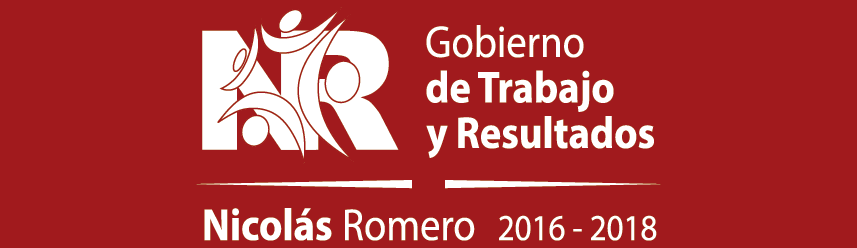
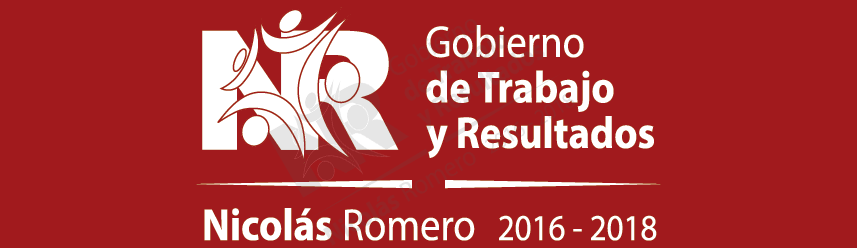
Mejora de Seguridad

diff --git a/assets/css/main.css b/assets/css/main.css
@@ -1214,7 +1214,27 @@
 			width: 100%;
 			margin: 0 0 2em 0;
 		}
-
+		.imgDir1{
+			position: relative;
+			background-image: url("images/overlay.png"), url("images/overlay.png"), url("images/dif2.jpg");
+			background-position: top left, top left, center center;
+			background-repeat: repeat, repeat, no-repeat;
+			background-size: auto, auto, cover;
+		}
+		.imgDir2{
+			position: relative;
+			background-image: url("images/overlay.png"), url("images/overlay.png"), url("images/imcufide2.jpg");
+			background-position: top left, top left, center center;
+			background-repeat: repeat, repeat, no-repeat;
+			background-size: auto, auto, cover;
+		}
+		.imgDir3{
+			position: relative;
+			background-image: url("images/overlay.png"), url("images/overlay.png"), url("images/sapasnir2.jpg");
+			background-position: top left, top left, center center;
+			background-repeat: repeat, repeat, no-repeat;
+			background-size: auto, auto, cover;
+		}
 		.image.left {
 			float: left;
 			margin: 0 2em 2em 0;

diff --git a/slide/css/style.css b/slide/css/style.css
@@ -9,6 +9,14 @@
 			width: auto;
 			max-width: 100%;
 		}
+		.overlay{
+			position: relative;
+			background-image: url("img/overlay.png"), url("img/overlay.png"), url("img/banner.png");
+			background-position: top left, top left, center center;
+			background-repeat: repeat, repeat, no-repeat;
+			background-size: auto, auto, cover;
+			z-index: 1;
+		}
 		.cycle-slideshow{
 			width: 100%;
 			max-width: 2000px;

diff --git a/index.php b/index.php
@@ -3,11 +3,12 @@
 <head>
 	<meta charset="UTF-8">
 	<title>Nicolás Romero 2016 - 2018 Trabajo y Resultados</title>
-	<meta name="viewport" content="width=device-width, initial-scale=1" />
+	<meta http-equiv="imagetoolbar" content="no">
+	<meta name="viewport" content="width=device-width, initial-scale=1">
 	<link rel="stylesheet" href="assets/css/main.css" />
 	<link rel="stylesheet" href="slide/css/style.css">
 </head>
-<body class="homepage">
+<body class="homepage" expr:id="&quot;post-body-&quot; + data:post.id" itemprop="articleBody" oncontextmenu="return false" ondragstart="return false" onmousedown="return false" onselectstart="return false">
 	<div id="page-wrapper">
 
 			<!-- Header -->
@@ -112,21 +113,21 @@
 										<div>
 											<div class="cuadroDir">
 											<div class="cuadroDirChico">
-												<a href="#" class="image featured"><img src="images/dif2.jpg" alt=""></a>
+												<a href="#"><img src="images/nada.png" alt="dif" class="imgDir1"></a>
 												<h3><a href="#">DIF</a></h3>
 <!-- 															<p>
 																Desarrollo Integral de la Familia
 															</p> -->
 											</div>
 											<div class="cuadroDirChico">
-												<a href="#" class="image featured"><img src="images/imcufide2.jpg" alt=""></a>
+												<a href="#"><img src="images/nada.png" alt="imcufide" class="imgDir2"></a>
 												<h3><a href="#">IMCUFIDE</a></h3>
 <!-- 															<p>
 																Instituto Municipal de Cultura Física y Deporte
 															</p> -->
 											</div>
 											<div class="cuadroDirChico">
-												<a href="#" class="image featured"><img src="images/sapasnir2.jpg" alt=""></a>
+												<a href="#"><img src="images/nada.png" alt="sapasnir" class="imgDir3"></a>
 												<h3><a href="#">SAPASNIR</a></h3>
 <!-- 															<p>
 																Sistema de Agua Potable Alcantarillado y Saneamiento de Nicolás Romero

diff --git a/slide/slide.php b/slide/slide.php
@@ -3,7 +3,7 @@
 	<span class="cycle-next">&#9002;</span>
 	<span class="cycle-pager"></span>
 		
-		<img src="slide/img/banner.png" alt="img 1">
+		<img src="slide/img/nada.png" alt="img 1" class="overlay">
 		<img src="slide/img/banner.jpg" alt="img 2">
 		
 </div>
